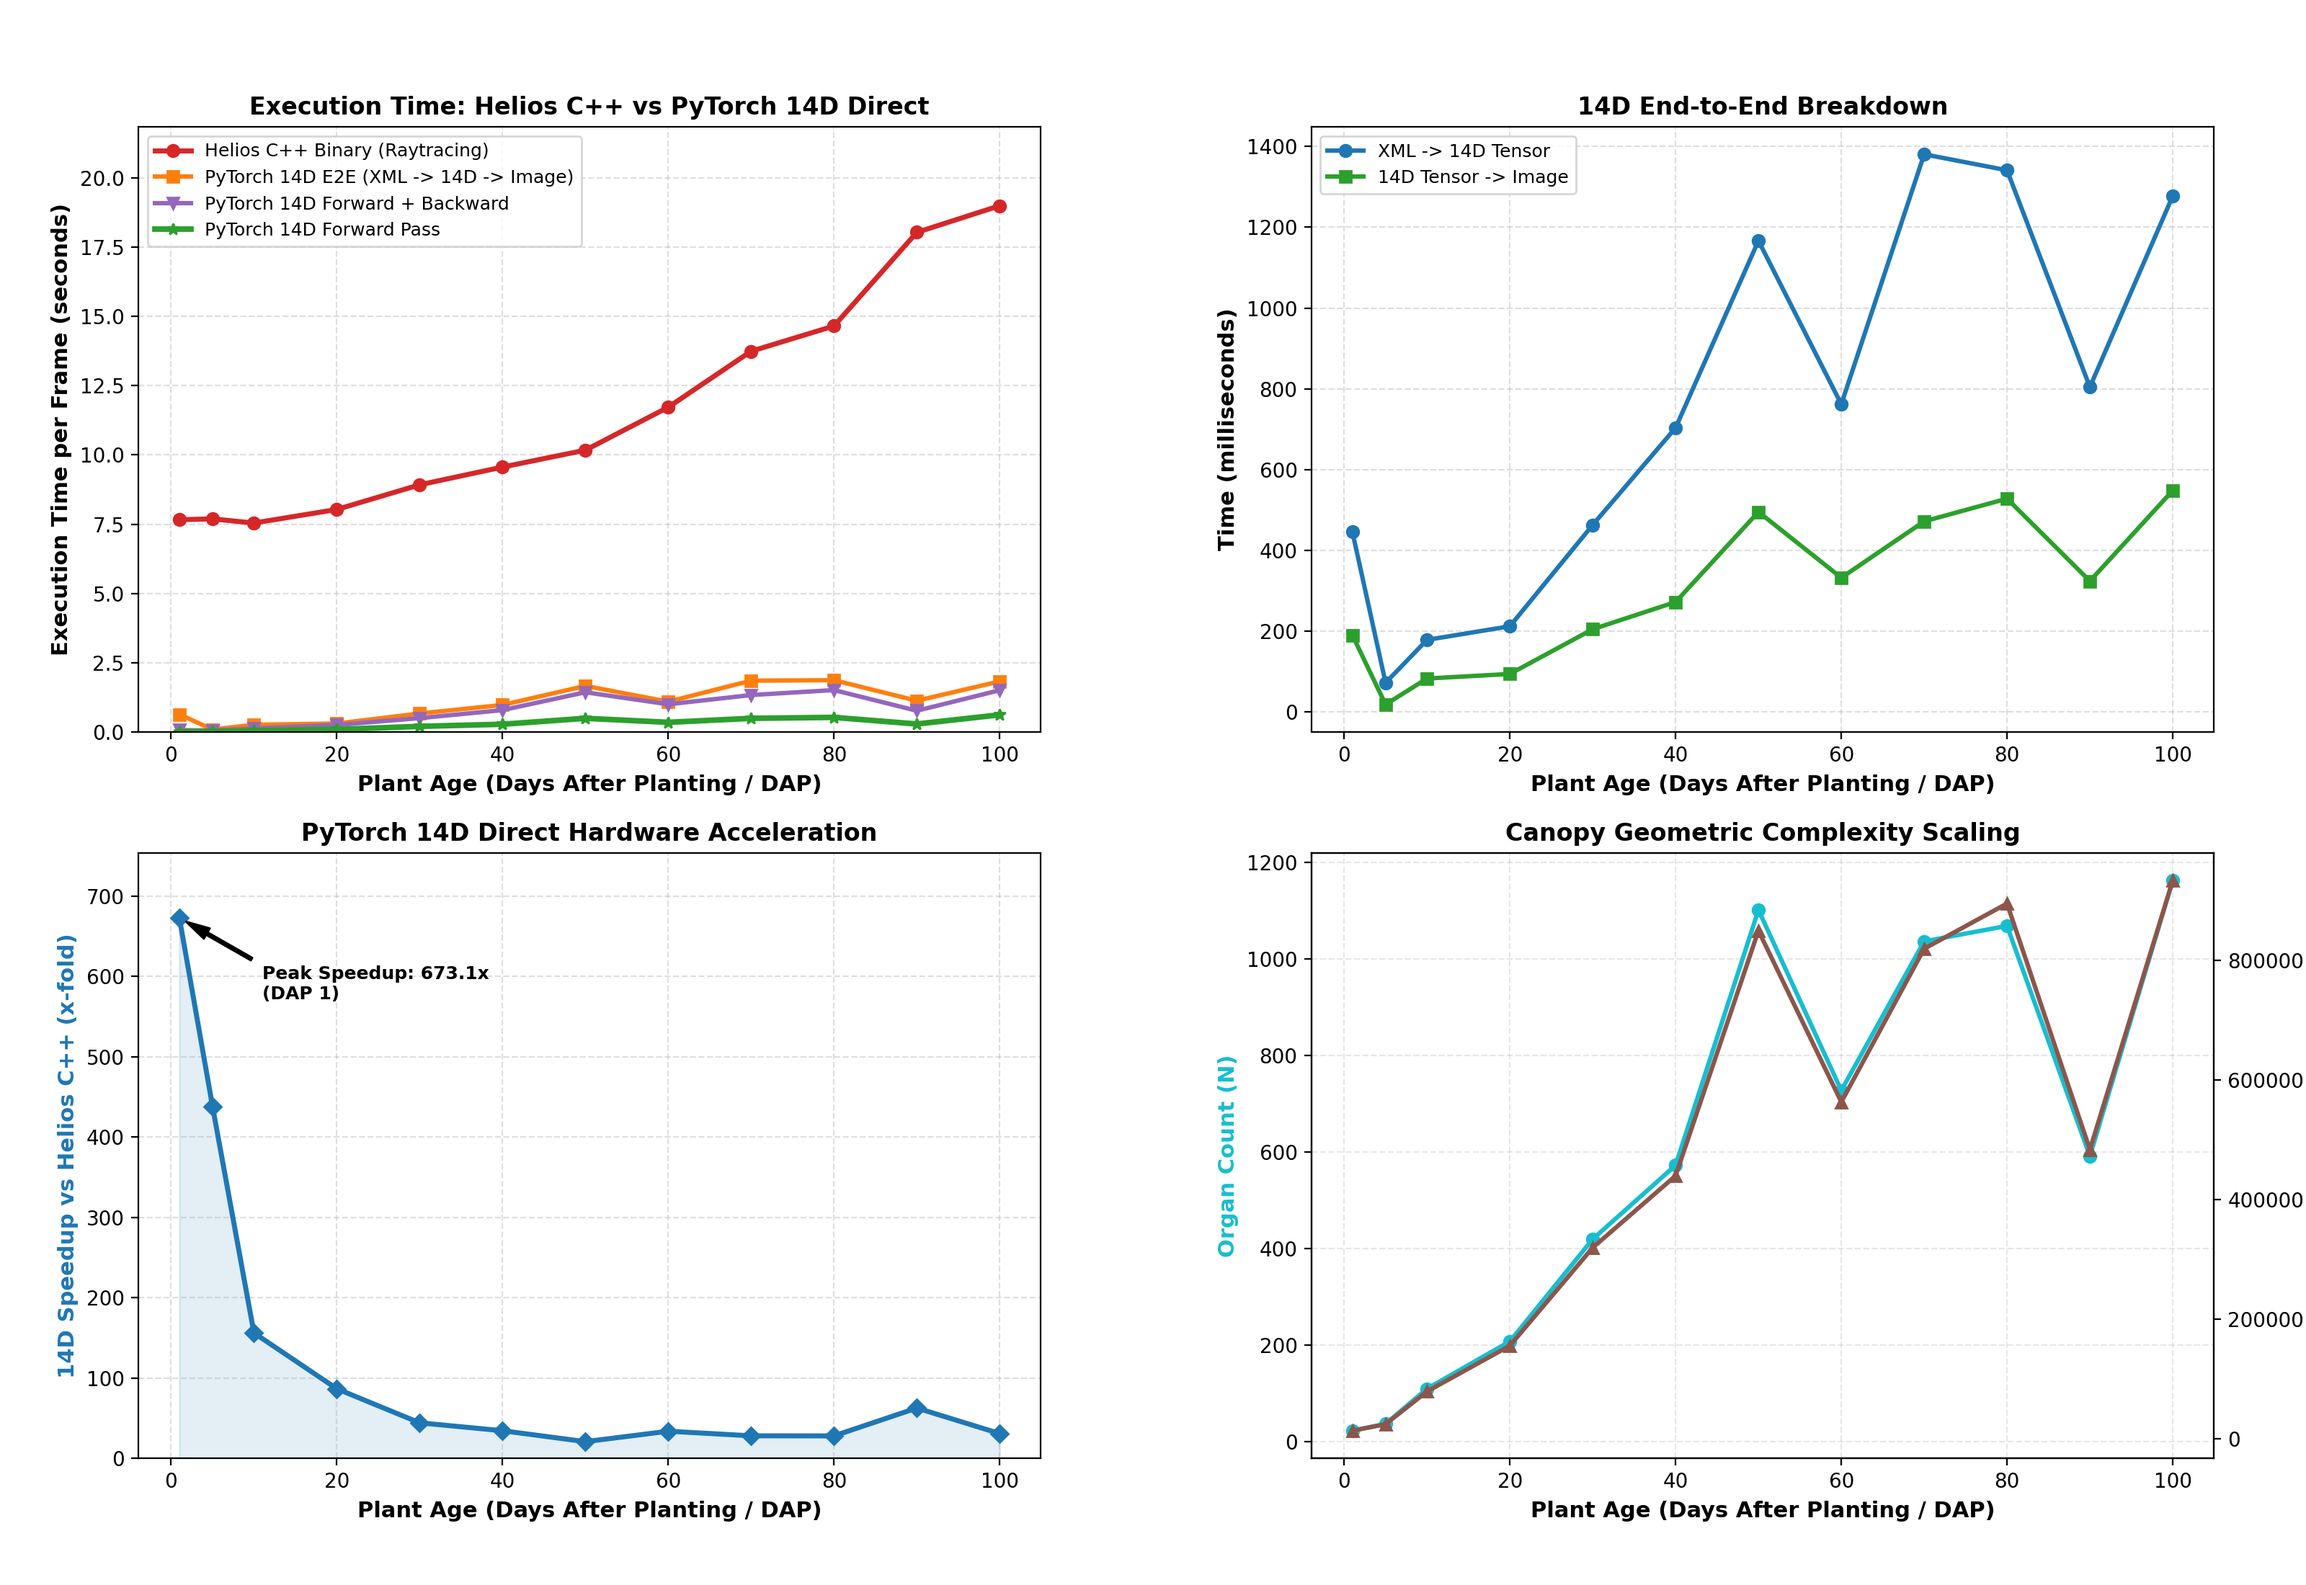
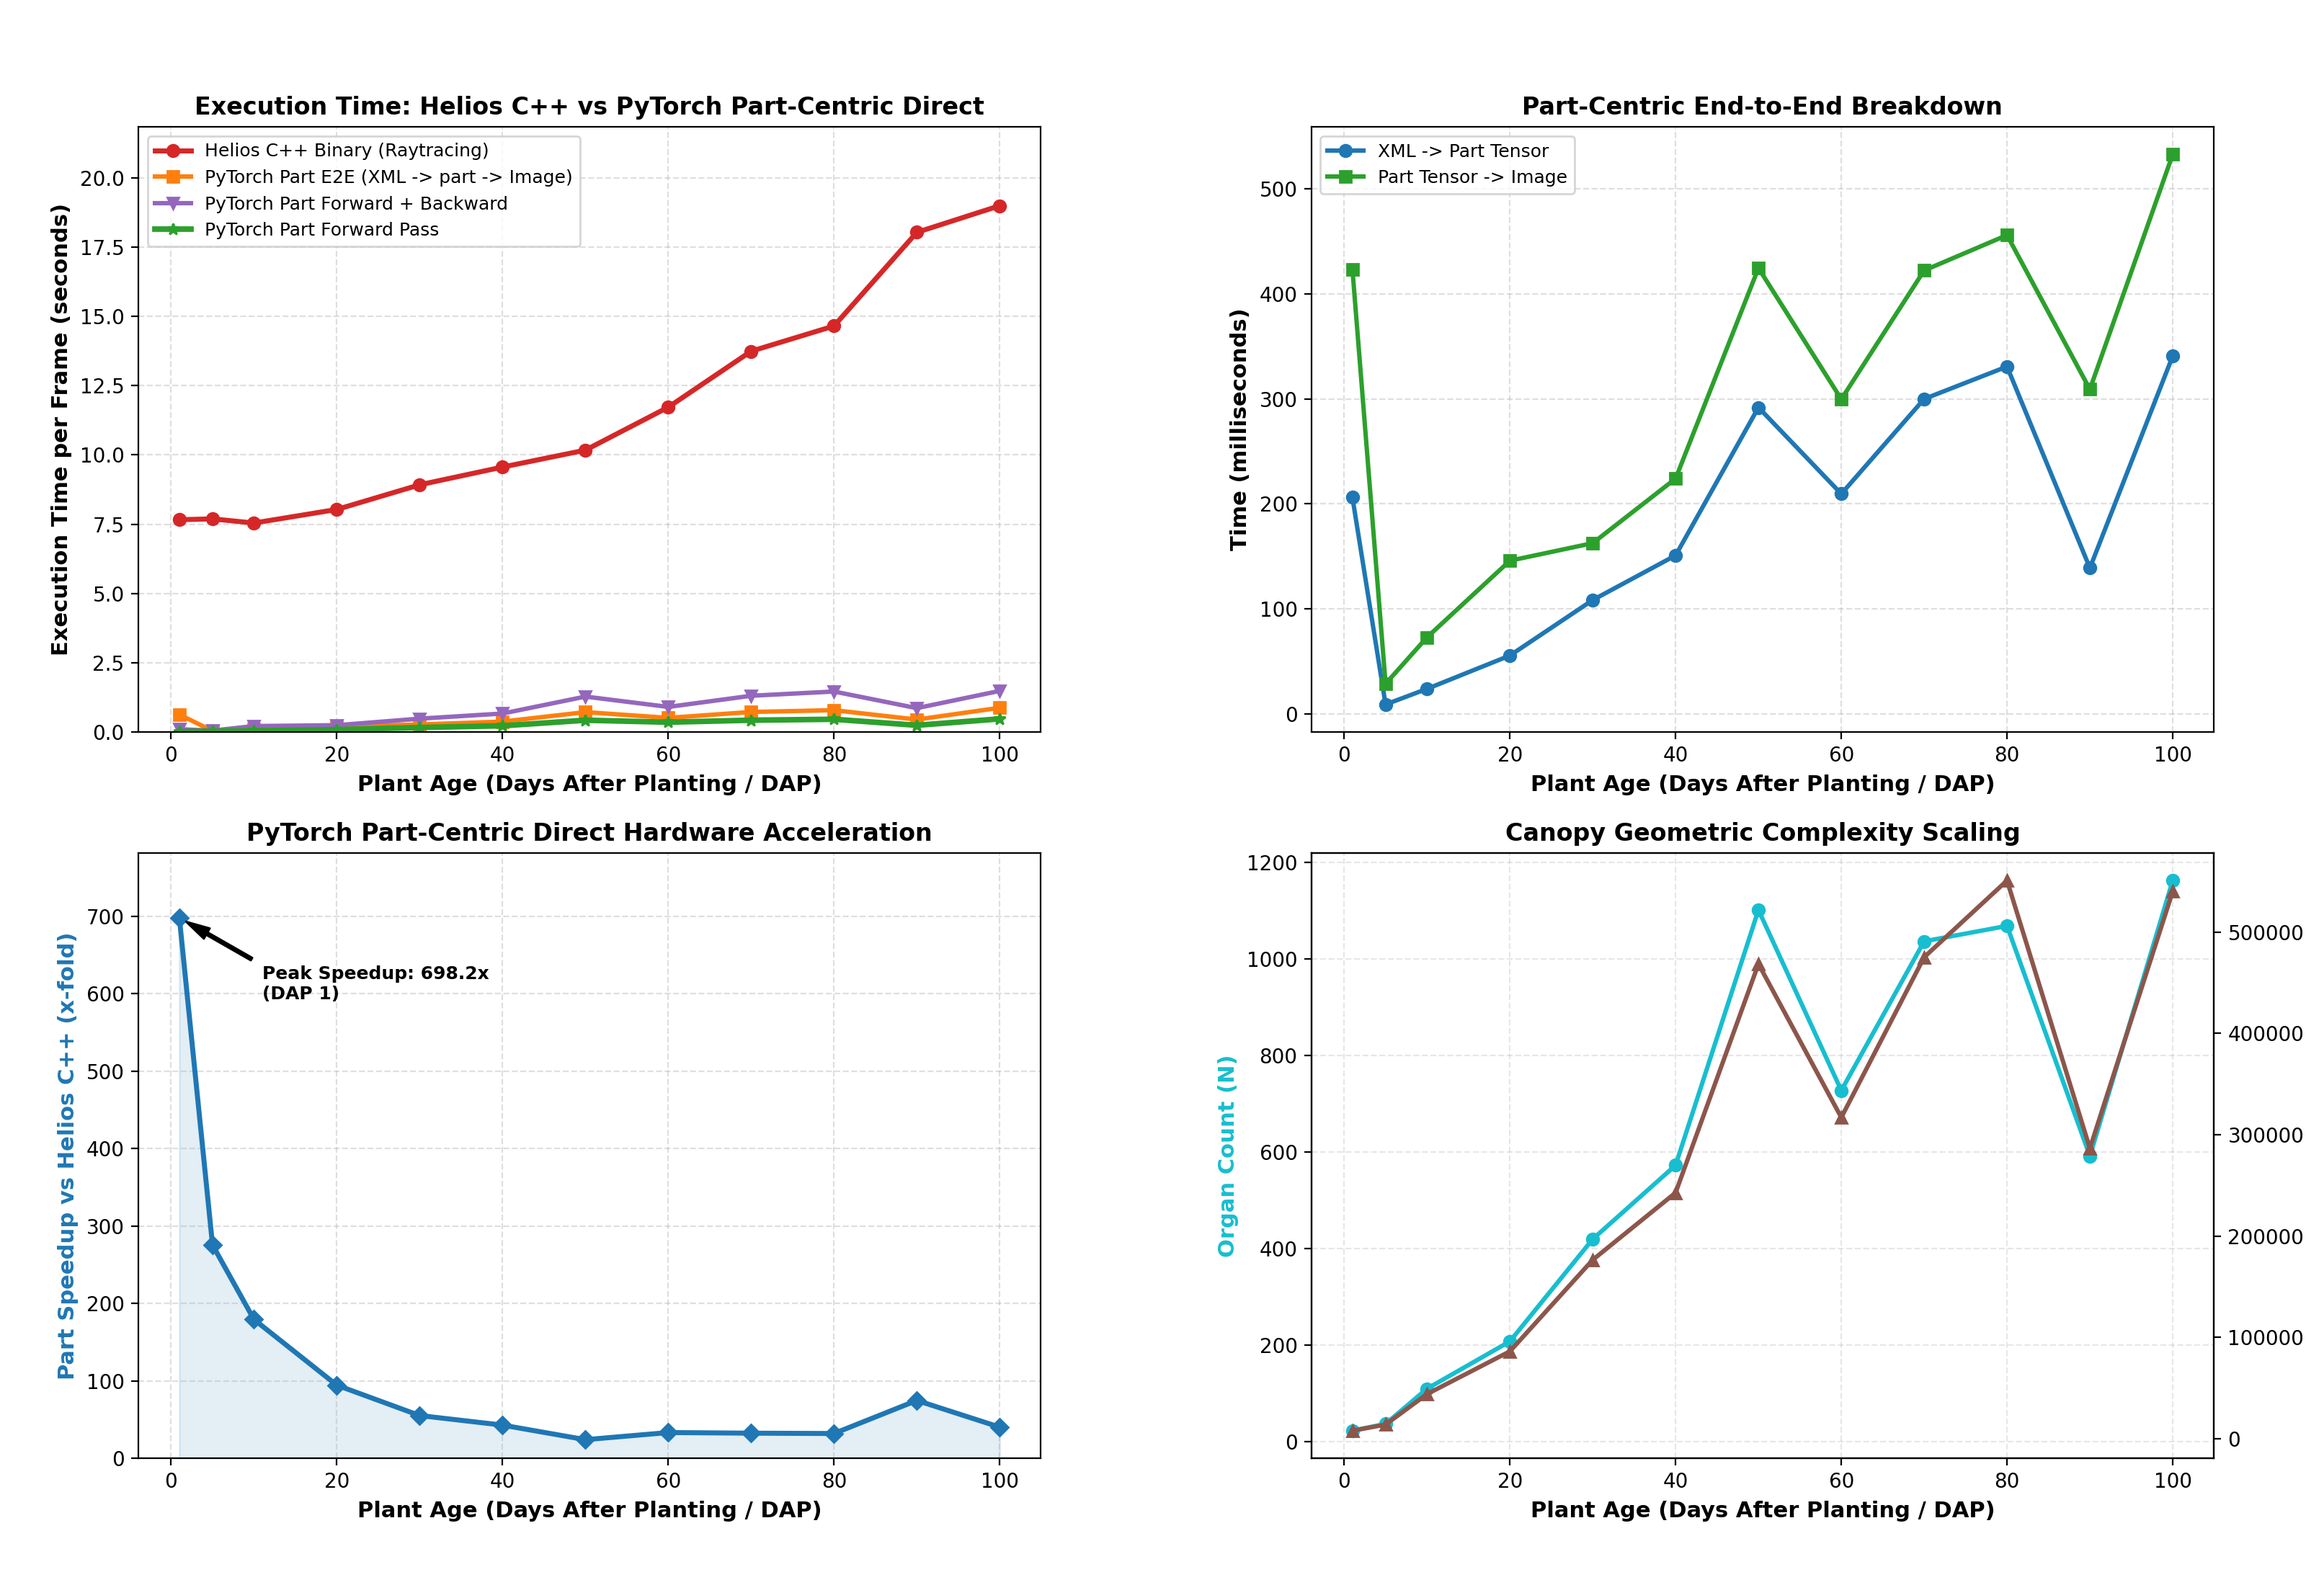
chore: update Figure 1 speed benchmark for part-tensor-only pipeline
Rename 14D labels to part-centric, use from_xml_file (direct parser), and
regenerate fig1 with real end-to-end timings.

diff --git a/diffusion_based/eval/benchmark_helios_vs_torch_renderer.py b/diffusion_based/eval/benchmark_helios_vs_torch_renderer.py
@@ -1,10 +1,10 @@
 """
-Accurate Empirical Benchmark: Actual Helios C++ Binary Execution vs PyTorch 14D Direct Part Renderer (DAP 1-100).
+Accurate Empirical Benchmark: Actual Helios C++ Binary Execution vs PyTorch Part-Centric Direct Renderer (DAP 1-100).
 
 Directly runs and benchmarks:
   1. Actual Helios C++ binary (main --renderer radiation) across DAPs (1-100)
-  2. PyTorch 14D Direct Part Assembly (Forward & Backward passes)
-  3. End-to-end XML -> 14D -> Image wall-clock time
+  2. PyTorch part-centric direct assembly (Forward & Backward passes)
+  3. End-to-end XML -> part tensor -> Image wall-clock time
   4. Real Speedup Factor across plant growth timeline (vs Helios C++)
 
 Outputs:
@@ -105,15 +105,15 @@ def benchmark_accurate_dap(force_recompute=True):
         if xml_path is None or not os.path.exists(xml_path):
             continue
 
-        # 3. End-to-end XML -> 14D -> Image timing
+        # 3. End-to-end XML -> part tensor -> Image timing
         t0 = time.time()
-        organ_array = PlantOrganArray.from_xml_file_typed(xml_path)
+        organ_array = PlantOrganArray.from_xml_file(xml_path)
         p14 = organ_array.to_part_tensor(device=device)
         t_xml_to_14d = time.time() - t0
 
         t0 = time.time()
         _ = renderer.render_part_tensor_14d(
-            p14, template_organ_array=organ_array, camera_height=5.0, elevation_deg=90.0,
+            p14, camera_height=5.0, elevation_deg=90.0,
             device=device, focus_plant=True, use_kinematics_tree=False, differentiable=False,
         )
         if torch.cuda.is_available():
@@ -122,36 +122,36 @@ def benchmark_accurate_dap(force_recompute=True):
         t_end_to_end = t_xml_to_14d + t_render_14d
 
         mesh_dict = renderer.geo_builder.build_mesh_from_part_array_14d(
-            p14, template_organ_array=organ_array, device=device, use_kinematics_tree=False
+            p14, device=device, use_kinematics_tree=False
         )
         tri_count = mesh_dict["faces"].shape[0]
         organ_count = p14.shape[0]
 
         # Warmup
         _ = renderer.render_part_tensor_14d(
-            p14, template_organ_array=organ_array, camera_height=5.0, elevation_deg=90.0,
+            p14, camera_height=5.0, elevation_deg=90.0,
             device=device, focus_plant=True, use_kinematics_tree=False, differentiable=False,
         )
         if torch.cuda.is_available():
             torch.cuda.synchronize()
 
-        # Benchmark 14D Direct Forward
+        # Benchmark part-tensor Direct Forward
         t0 = time.time()
         for _ in range(5):
             _ = renderer.render_part_tensor_14d(
-                p14, template_organ_array=organ_array, camera_height=5.0, elevation_deg=90.0,
+                p14, camera_height=5.0, elevation_deg=90.0,
                 device=device, focus_plant=True, use_kinematics_tree=False, differentiable=False,
             )
         if torch.cuda.is_available():
             torch.cuda.synchronize()
         torch_14d_fwd = (time.time() - t0) / 5.0
 
-        # Benchmark 14D Direct Backward
+        # Benchmark part-tensor Direct Backward
         t0 = time.time()
         for _ in range(3):
             opt_p14 = p14.clone().requires_grad_(True)
             rend_14d = renderer.render_part_tensor_14d(
-                opt_p14, template_organ_array=organ_array, camera_height=5.0, elevation_deg=90.0,
+                opt_p14, camera_height=5.0, elevation_deg=90.0,
                 device=device, focus_plant=True, use_kinematics_tree=False, differentiable=True,
             )
             loss_14d = rend_14d.sum()
@@ -175,9 +175,9 @@ def benchmark_accurate_dap(force_recompute=True):
 
         print(f"DAP {dap:03d} (Organs={organ_count:4d}, Tris={tri_count:6d}): "
               f"Helios C++={helios_sec:5.2f}s | "
-              f"14D Fwd={torch_14d_fwd*1000:5.1f}ms | "
-              f"XML->14D={t_xml_to_14d*1000:5.1f}ms | "
-              f"14D Render={t_render_14d*1000:5.1f}ms | "
+              f"Part Fwd={torch_14d_fwd*1000:5.1f}ms | "
+              f"XML->part={t_xml_to_14d*1000:5.1f}ms | "
+              f"part->img={t_render_14d*1000:5.1f}ms | "
               f"E2E={t_end_to_end*1000:5.1f}ms | "
               f"Speedup={speedup_helios:5.1f}x vs Helios")
 
@@ -192,32 +192,32 @@ def benchmark_accurate_dap(force_recompute=True):
 
     # Panel 1: Execution Time in Seconds
     axes[0, 0].plot(daps, results["helios_time_sec"], "o-", color="#d62728", linewidth=2.5, label="Helios C++ Binary (Raytracing)")
-    axes[0, 0].plot(daps, results["end_to_end_14d_sec"], "s-", color="#ff7f0e", linewidth=2.2, label="PyTorch 14D E2E (XML -> 14D -> Image)")
-    axes[0, 0].plot(daps, results["torch_14d_bwd_sec"], "v-", color="#9467bd", linewidth=2.2, label="PyTorch 14D Forward + Backward")
-    axes[0, 0].plot(daps, results["torch_14d_fwd_sec"], "*-", color="#2ca02c", linewidth=2.8, label="PyTorch 14D Forward Pass")
+    axes[0, 0].plot(daps, results["end_to_end_14d_sec"], "s-", color="#ff7f0e", linewidth=2.2, label="PyTorch Part E2E (XML -> part -> Image)")
+    axes[0, 0].plot(daps, results["torch_14d_bwd_sec"], "v-", color="#9467bd", linewidth=2.2, label="PyTorch Part Forward + Backward")
+    axes[0, 0].plot(daps, results["torch_14d_fwd_sec"], "*-", color="#2ca02c", linewidth=2.8, label="PyTorch Part Forward Pass")
     axes[0, 0].set_ylim(bottom=0, top=max(results["helios_time_sec"]) * 1.15)
     axes[0, 0].set_xlabel("Plant Age (Days After Planting / DAP)", fontsize=11, fontweight="bold")
     axes[0, 0].set_ylabel("Execution Time per Frame (seconds)", fontsize=11, fontweight="bold")
-    axes[0, 0].set_title("Execution Time: Helios C++ vs PyTorch 14D Direct", fontsize=12, fontweight="bold")
+    axes[0, 0].set_title("Execution Time: Helios C++ vs PyTorch Part-Centric Direct", fontsize=12, fontweight="bold")
     axes[0, 0].grid(True, linestyle="--", alpha=0.4)
     axes[0, 0].legend(fontsize=9, loc="upper left")
 
     # Panel 2: End-to-End Breakdown (ms)
-    axes[0, 1].plot(daps, np.array(results["xml_to_14d_sec"]) * 1000, "o-", color="#1f77b4", linewidth=2.2, label="XML -> 14D Tensor")
-    axes[0, 1].plot(daps, np.array(results["render_14d_sec"]) * 1000, "s-", color="#2ca02c", linewidth=2.2, label="14D Tensor -> Image")
+    axes[0, 1].plot(daps, np.array(results["xml_to_14d_sec"]) * 1000, "o-", color="#1f77b4", linewidth=2.2, label="XML -> Part Tensor")
+    axes[0, 1].plot(daps, np.array(results["render_14d_sec"]) * 1000, "s-", color="#2ca02c", linewidth=2.2, label="Part Tensor -> Image")
     axes[0, 1].set_xlabel("Plant Age (Days After Planting / DAP)", fontsize=11, fontweight="bold")
     axes[0, 1].set_ylabel("Time (milliseconds)", fontsize=11, fontweight="bold")
-    axes[0, 1].set_title("14D End-to-End Breakdown", fontsize=12, fontweight="bold")
+    axes[0, 1].set_title("Part-Centric End-to-End Breakdown", fontsize=12, fontweight="bold")
     axes[0, 1].grid(True, linestyle="--", alpha=0.4)
     axes[0, 1].legend(fontsize=9)
 
     # Panel 3: Speedup Factor
-    axes[1, 0].plot(daps, results["speedup_14d_vs_helios"], "D-", color="#1f77b4", linewidth=2.5, label="14D vs Helios C++ Speedup")
+    axes[1, 0].plot(daps, results["speedup_14d_vs_helios"], "D-", color="#1f77b4", linewidth=2.5, label="Part vs Helios C++ Speedup")
     axes[1, 0].fill_between(daps, results["speedup_14d_vs_helios"], color="#1f77b4", alpha=0.12)
     axes[1, 0].set_ylim(bottom=0, top=max(results["speedup_14d_vs_helios"]) * 1.12)
     axes[1, 0].set_xlabel("Plant Age (Days After Planting / DAP)", fontsize=11, fontweight="bold")
-    axes[1, 0].set_ylabel("14D Speedup vs Helios C++ (x-fold)", fontsize=11, fontweight="bold", color="#1f77b4")
-    axes[1, 0].set_title("PyTorch 14D Direct Hardware Acceleration", fontsize=12, fontweight="bold")
+    axes[1, 0].set_ylabel("Part Speedup vs Helios C++ (x-fold)", fontsize=11, fontweight="bold", color="#1f77b4")
+    axes[1, 0].set_title("PyTorch Part-Centric Direct Hardware Acceleration", fontsize=12, fontweight="bold")
     axes[1, 0].grid(True, linestyle="--", alpha=0.4)
 
     max_idx = np.argmax(results["speedup_14d_vs_helios"])
@@ -244,7 +244,7 @@ def benchmark_accurate_dap(force_recompute=True):
     plt.savefig(out_png, dpi=200)
     plt.close()
 
-    print(f"\n[OK] Saved updated 14D benchmark figure to: {out_png}")
+    print(f"\n[OK] Saved updated part-centric benchmark figure to: {out_png}")
     return results
 
 
